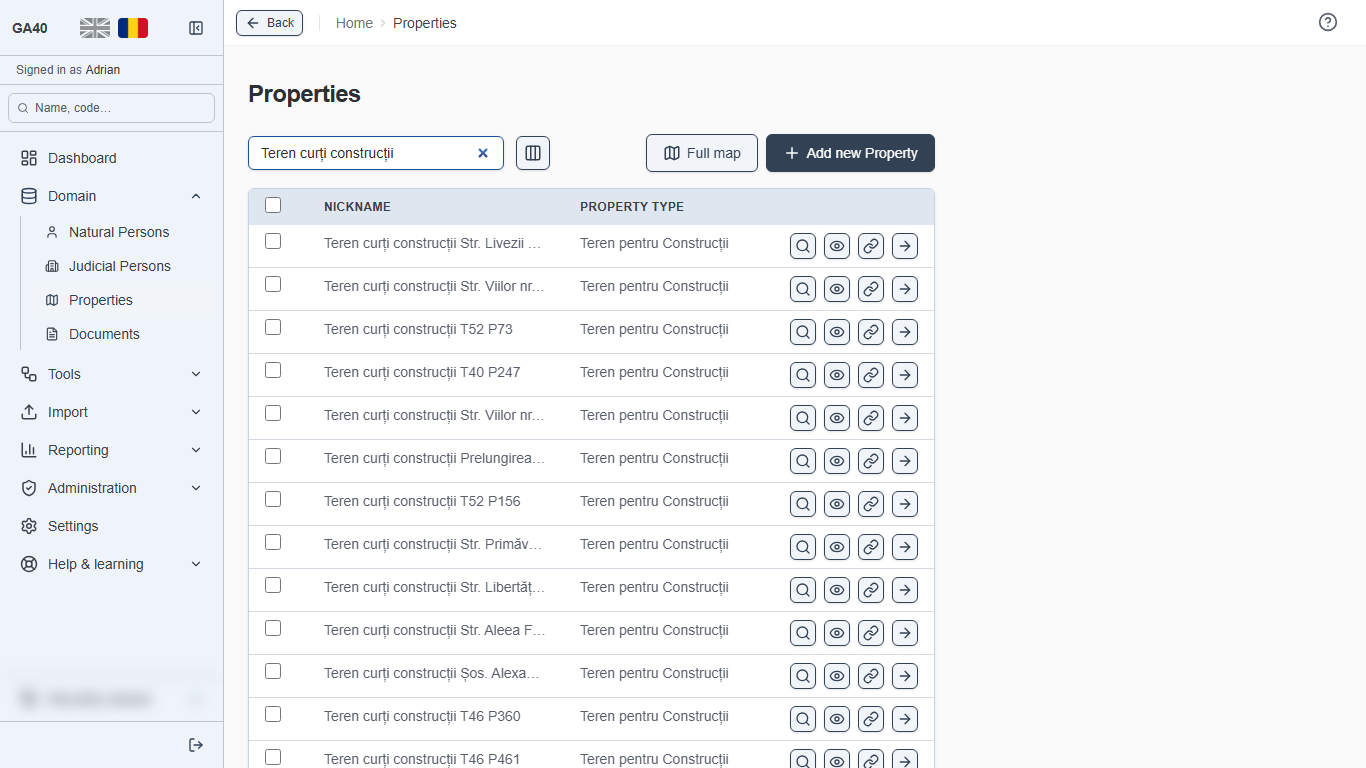
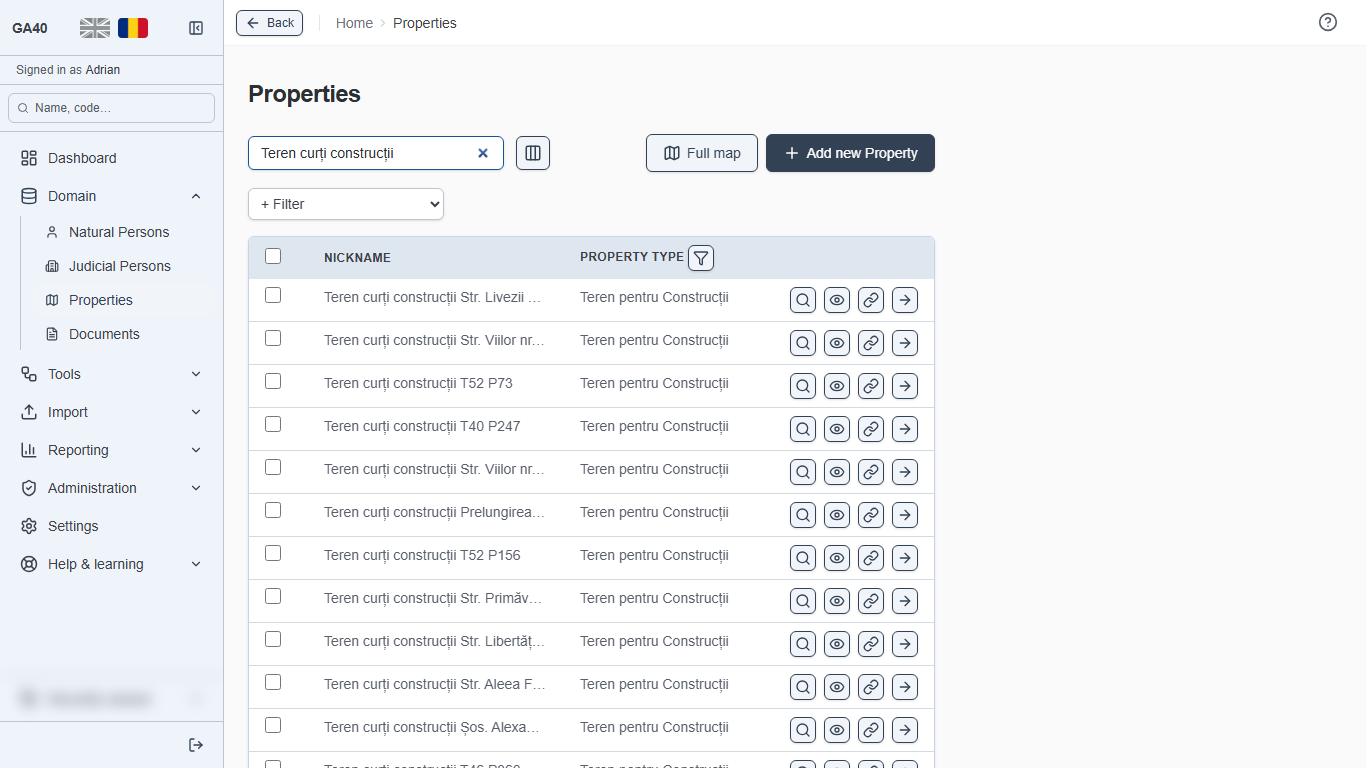
docs: figure 5.1 re-shot with the filter bar; TC-PROP-14 automated (#39.61)
- properties-list.png, both languages, from the runner's figures run 20261017T031114Z-2194, which uses the big
  seed's invented records and blurs „Recente". I checked it: no identity field is on it.
- TC-PROP-14 is `automated`: its spec ran green in the targeted run 20261017T030703Z-21013.

Claude-Session: https://claude.ai/code/session_01HAw7HzTB6iN96oSz25xmre

Changed region(s): [[0.1845, 0.2188, 0.7072, 1.0], [0.1845, 0.5625, 0.2152, 0.5938]]

diff --git a/docs/testing/TEST-CATALOGUE.md b/docs/testing/TEST-CATALOGUE.md
@@ -80,7 +80,7 @@ fixed fixture where the existing one will do.
 | [TC-PROP-11](cases/TC-PROP-11.md) | Titlul proprietății numește tipul ei și explică ce fișe arată acel tip | property | happy | — | `automated` | 2026-10-05 | `e2e/property/property-heading-type.spec.ts` |
 | [TC-PROP-12](cases/TC-PROP-12.md) | Căsuțele fișelor pe care tipul proprietății nu le arată: inactive, în cursiv, neatinse de „Toate” și „Implicit” | property | happy | — | `automated` | 2026-10-05 | `e2e/property/property-tiles-by-type.spec.ts` |
 | [TC-PROP-13](cases/TC-PROP-13.md) | „Navighează”: linkul Google Maps și codul QR, spre parcelă sau spre adresă | property | happy | — | `automated` | 2026-10-14 | `e2e/property/navigate.spec.ts` |
-| [TC-PROP-14](cases/TC-PROP-14.md) | Lista proprietăților filtrată după „Tip proprietate” și „Categorie de folosință”: numărul de lângă fiecare valoare, adresa, „Șterge filtrele” | property | happy | — | `confirmed` | 2026-10-16 | `e2e/property/property-list-filters.spec.ts` |
+| [TC-PROP-14](cases/TC-PROP-14.md) | Lista proprietăților filtrată după „Tip proprietate” și „Categorie de folosință”: numărul de lângă fiecare valoare, adresa, „Șterge filtrele” | property | happy | — | `automated` | 2026-10-16 | `e2e/property/property-list-filters.spec.ts` |
 | [TC-PERS-01](cases/TC-PERS-01.md) | Persoană fizică creată manual | person | happy | — | `automated` | 2026-10-02 | `e2e/person/person-create.spec.ts` |
 | [TC-PERS-02](cases/TC-PERS-02.md) | Persoană juridică creată și modificată | person | happy | — | `automated` | 2026-10-02 | `e2e/person/company-create-edit.spec.ts` |
 | [TC-PERS-03](cases/TC-PERS-03.md) | CNP-ul salvat: nota despre blocare într-un balon, iar o schimbare salvată e refuzată în română | person | happy | — | `automated` | 2026-10-02 | `e2e/person/cnp-lock-bubble.spec.ts` |
@@ -229,7 +229,7 @@ fixed fixture where the existing one will do.
 | [TC-INHER-03](cases/TC-INHER-03.md) | „Arbori de moștenire” în timp: actele fiecărei persoane, „Acte comune” și anul care estompează | reports | happy | — | `automated` | 2026-10-12 | `e2e/reports/inheritance-time-docs.spec.ts` |
 
 **One hundred and four are `automated`, seventeen are `driven`, and one is `draft`** — as of 2026-10-08 (Slices
-#37.38, #37.40, #37.42–#37.47, #37.49–#37.85, #37.88, #37.89, #37.91–#37.95, #38.03–#38.05, #38.07, #38.10–#38.14, #38.16, #38.17 #38.19, #38.20, #38.28, #38.29, #38.31, #38.32, #38.33, #38.34, #38.35, #38.36, #38.39 and #38.40, which added TC-MAP-01, TC-FOLD-01, TC-ICON-01–07, TC-PERS-03–04, TC-DOC-02–07, TC-TILES-07, TC-SYSID-01, TC-ASSOC-13, TC-DOC-07, TC-PERS-04, TC-PROP-06, TC-DOC-08, TC-TILES-08, TC-DOC-09, TC-DOC-10, TC-PROP-07, TC-PERS-05, TC-TILES-09, TC-TILES-10, TC-TILES-11, TC-PERS-06, TC-DOC-11, TC-TILES-12, TC-TILES-13, TC-PROP-08, TC-TILES-14, TC-TILES-15, TC-DOC-12, TC-TILES-16, TC-TILES-17, TC-LAYOUT-02, TC-DOC-13, TC-TILES-18, TC-PERS-07, TC-PROP-09, TC-PROP-10, TC-DOC-14, TC-LAYOUT-03, TC-DOC-15, TC-PROP-11, TC-PROP-12, TC-TILES-19, TC-DOC-16, TC-GRP-02, TC-GRP-03, TC-GRP-04, TC-STAMP-02, TC-TAG-02, TC-TILES-20, TC-TAG-03, TC-NAV-01, TC-DOC-17, TC-LAYOUT-04, TC-PERS-08, TC-PERS-09, TC-DOC-18, TC-DOC-19, TC-DOC-20, TC-VL-02, TC-VL-03, TC-VL-04 and TC-SET-02 and took each to `automated` the same day). Nothing is `confirmed` but TC-MAP-05 (#39.60: the October maps ceiling skips its spec) and, until its first runner run, TC-PROP-14 (#39.61). What stays below `automated` is the import and AI cases, the first
+#37.38, #37.40, #37.42–#37.47, #37.49–#37.85, #37.88, #37.89, #37.91–#37.95, #38.03–#38.05, #38.07, #38.10–#38.14, #38.16, #38.17 #38.19, #38.20, #38.28, #38.29, #38.31, #38.32, #38.33, #38.34, #38.35, #38.36, #38.39 and #38.40, which added TC-MAP-01, TC-FOLD-01, TC-ICON-01–07, TC-PERS-03–04, TC-DOC-02–07, TC-TILES-07, TC-SYSID-01, TC-ASSOC-13, TC-DOC-07, TC-PERS-04, TC-PROP-06, TC-DOC-08, TC-TILES-08, TC-DOC-09, TC-DOC-10, TC-PROP-07, TC-PERS-05, TC-TILES-09, TC-TILES-10, TC-TILES-11, TC-PERS-06, TC-DOC-11, TC-TILES-12, TC-TILES-13, TC-PROP-08, TC-TILES-14, TC-TILES-15, TC-DOC-12, TC-TILES-16, TC-TILES-17, TC-LAYOUT-02, TC-DOC-13, TC-TILES-18, TC-PERS-07, TC-PROP-09, TC-PROP-10, TC-DOC-14, TC-LAYOUT-03, TC-DOC-15, TC-PROP-11, TC-PROP-12, TC-TILES-19, TC-DOC-16, TC-GRP-02, TC-GRP-03, TC-GRP-04, TC-STAMP-02, TC-TAG-02, TC-TILES-20, TC-TAG-03, TC-NAV-01, TC-DOC-17, TC-LAYOUT-04, TC-PERS-08, TC-PERS-09, TC-DOC-18, TC-DOC-19, TC-DOC-20, TC-VL-02, TC-VL-03, TC-VL-04 and TC-SET-02 and took each to `automated` the same day). Nothing is `confirmed` but TC-MAP-05 (#39.60: the October maps ceiling skips its spec). What stays below `automated` is the import and AI cases, the first
 runs of #37.04, #37.08 and #37.10, TC-AUTH-02 (TC-CALC-01 went to `automated` in #38.43, and TC-IMP-05 to `driven` in #38.44 on a drawn card), and the reason for
 each is written here, not implied:
 

diff --git a/docs/testing/cases/TC-PROP-14.md b/docs/testing/cases/TC-PROP-14.md
@@ -5,7 +5,7 @@
 | **Area** | property |
 | **Kind** | happy |
 | **Data** | — |
-| **State** | `confirmed` |
+| **State** | `automated` |
 | **Last green** | 2026-10-16 |
 
 ## What this proves
@@ -59,3 +59,6 @@ written from it.
 **2026-10-16 — run 2, `confirmed` (Slice #39.61).** The same, against the file above unchanged, with every step
 as in run 1. The three properties were deleted (204 each). `e2e/property/property-list-filters.spec.ts` translates
 it.
+
+**2026-10-16 — `automated` (Slice #39.61).** The test runner's targeted run 20261017T030703Z-21013 on 9877d13 ran
+`e2e/property/property-list-filters.spec.ts` green, with the list's other specs (lint, tsc and jest green too).
